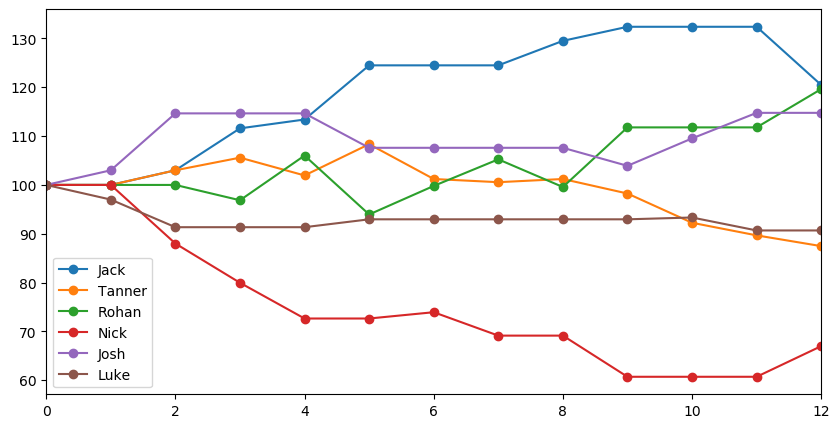
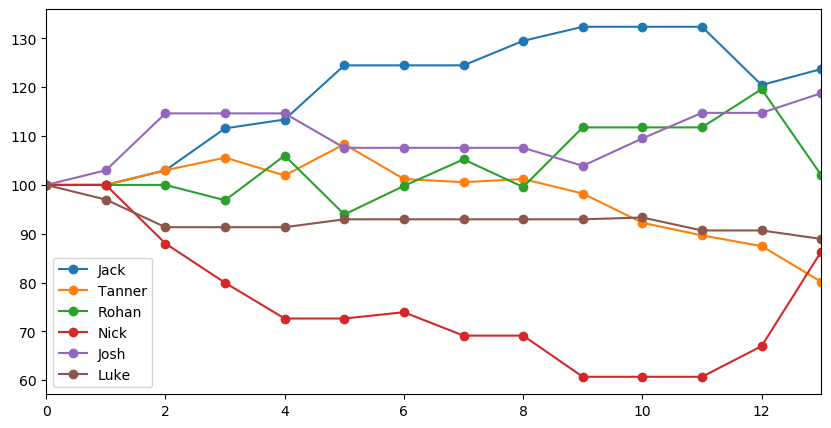
march 8 update

diff --git a/index.html b/index.html
@@ -42,49 +42,49 @@
   <tr class="w3-white">
     <td>1</td>
     <td>Jack</td>
-    <td>120.5</td>
-    <td>16-6-1</td>
-    <td>0.717</td>
+    <td>123.7</td>
+    <td>19-7-2</td>
+    <td>0.714</td>
   </tr>
 
   <tr class="w3-white">
     <td>2</td>
-    <td>Rohan</td>
-    <td>119.6</td>
-    <td>15-8-0</td>
-    <td>0.652</td>
+    <td>Josh</td>
+    <td>118.8</td>
+    <td>14-6-2</td>
+    <td>0.682</td>
   </tr>
 
   <tr class="w3-white">
     <td>3</td>
-    <td>Josh</td>
-    <td>114.8</td>
-    <td>11-5-1</td>
-    <td>0.676</td>
+    <td>Rohan</td>
+    <td>102.0</td>
+    <td>15-13-0</td>
+    <td>0.536</td>
   </tr>
 
   <tr class="w3-white">
     <td>4</td>
     <td>Luke</td>
-    <td>90.7</td>
-    <td>4-8-1</td>
-    <td>0.346</td>
+    <td>88.9</td>
+    <td>6-11-1</td>
+    <td>0.361</td>
   </tr>
 
   <tr class="w3-white">
     <td>5</td>
-    <td>Tanner</td>
-    <td>87.5</td>
-    <td>12-16-3</td>
-    <td>0.435</td>
+    <td>Nick</td>
+    <td>86.4</td>
+    <td>8-18-0</td>
+    <td>0.308</td>
   </tr>
 
   <tr class="w3-white">
     <td>6</td>
-    <td>Nick</td>
-    <td>67.0</td>
-    <td>3-18-0</td>
-    <td>0.143</td>
+    <td>Tanner</td>
+    <td>80.2</td>
+    <td>13-20-3</td>
+    <td>0.403</td>
   </tr>
 
 
@@ -109,6 +109,61 @@
   <h2>Recent Rounds<h2>
 </div>
 
+<div class="w3-container">
+<h4>Washout Woods &nbsp (3/8/2021)</h4>
+<table class="w3-table w3-striped w3-bordered">
+<tbody>
+
+<tr class="w3-theme">
+  <th><strong>Player</strong></th>
+  <th><strong>Score</strong></th>
+  <th><strong>Rating Change</strong></th>
+</tr>
+
+
+  <tr class="w3-white">
+    <td>Nick</td>
+    <td>5</td>
+    <td>+19.4</td>
+  </tr>
+
+  <tr class="w3-white">
+    <td>Jack</td>
+    <td>6</td>
+    <td>+3.3</td>
+  </tr>
+
+  <tr class="w3-white">
+    <td>Josh</td>
+    <td>6</td>
+    <td>+4.0</td>
+  </tr>
+
+  <tr class="w3-white">
+    <td>Luke</td>
+    <td>9</td>
+    <td>-1.7</td>
+  </tr>
+
+  <tr class="w3-white">
+    <td>Tanner</td>
+    <td>11</td>
+    <td>-7.3</td>
+  </tr>
+
+  <tr class="w3-white">
+    <td>Rohan</td>
+    <td>17</td>
+    <td>-17.6</td>
+  </tr>
+
+
+</tbody>
+</table>
+<p></p>
+</div>
+
+<!-- Recent 2 -->
 <div class="w3-container">
 <h4>Murdock Park &nbsp (3/6/2021)</h4>
 <table class="w3-table w3-striped w3-bordered">
@@ -151,7 +206,7 @@
 <p></p>
 </div>
 
-<!-- Recent 2 -->
+<!-- Recent 3 -->
 <div class="w3-container">
 <h4>Washout Woods &nbsp (3/4/2021)</h4>
 <table class="w3-table w3-striped w3-bordered">
@@ -188,43 +243,6 @@
 <p></p>
 </div>
 
-<!-- Recent 3 -->
-<div class="w3-container">
-<h4>Murdock Park &nbsp (3/4/2021)</h4>
-<table class="w3-table w3-striped w3-bordered">
-<tbody>
-
-<tr class="w3-theme">
-  <th><strong>Player</strong></th>
-  <th><strong>Score</strong></th>
-  <th><strong>Rating Change</strong></th>
-</tr>
-
-
-  <tr class="w3-white">
-    <td>Josh</td>
-    <td>3</td>
-    <td>+5.6</td>
-  </tr>
-
-  <tr class="w3-white">
-    <td>Luke</td>
-    <td>6</td>
-    <td>+0.4</td>
-  </tr>
-
-  <tr class="w3-white">
-    <td>Tanner</td>
-    <td>8</td>
-    <td>-6.0</td>
-  </tr>
-
-
-</tbody>
-</table>
-<p></p>
-</div>
-
 
 <!-- RATINGS OVER TIME GRAPH -->
 <div class="w3-container">
@@ -243,7 +261,7 @@
 </div>
 
 <div class="w3-container">
-  <p>Last Update: 03-07-2021</p>
+  <p>Last Update: 03-08-2021</p>
   <p>View All Data:
     <a href="info/all-data.html">Logged Rounds</a>
   </p>

diff --git a/info/all-data.html b/info/all-data.html
@@ -212,6 +212,20 @@
     <td></td>
   </tr>
 
+  <tr class="w3-white">
+    <td>13</td>
+    <td>2021-03-08</td>
+    <td>Washout Woods</td>
+    <td>70</td>
+    <td>Medium</td>
+    <td>6</td>
+    <td>11</td>
+    <td>17</td>
+    <td>5</td>
+    <td>6</td>
+    <td>9</td>
+  </tr>
+
 
 </tbody>
 </table>
